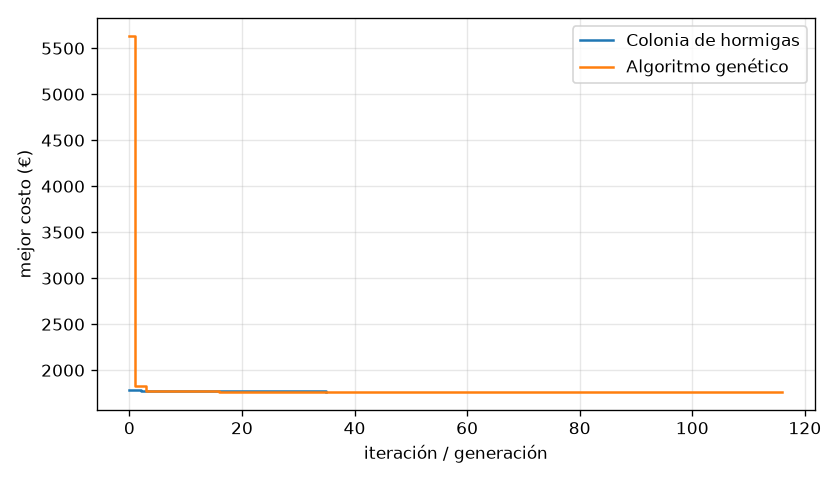
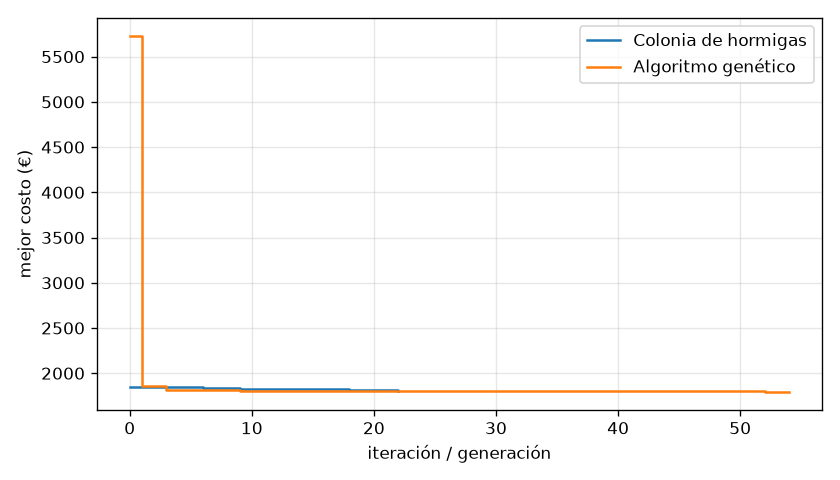
Resultados de la parte 2 con el precio corregido

diff --git a/resultados/parte2/valor_hora.md b/resultados/parte2/valor_hora.md
@@ -1,25 +1,25 @@
 | Valor hora (€/h) | km | horas | peajes (€) | combustible (€) | costo total (€) | aristas distintas |
 |---|---|---|---|---|---|---|
-| 0 | 6,379.3 | 80.75 | 22.79 | 538.19 | 560.98 | 0 |
-| 2.5 | 6,379.3 | 80.75 | 22.79 | 538.19 | 762.84 | 0 |
-| 5 | 6,379.3 | 80.75 | 22.79 | 538.19 | 964.71 | 0 |
-| 7.5 | 6,379.3 | 80.75 | 22.79 | 538.19 | 1,166.57 | 0 |
-| 10 | 6,335.4 | 79.52 | 36.08 | 534.48 | 1,365.77 | 10 |
-| 15 | 6,335.4 | 79.52 | 36.08 | 534.48 | 1,763.37 | 10 |
-| 20 | 6,335.4 | 79.52 | 36.08 | 534.48 | 2,160.97 | 10 |
-| 25 | 6,286.5 | 78.85 | 55.01 | 530.36 | 2,556.64 | 12 |
-| 30 | 6,328.2 | 78.38 | 64.89 | 533.88 | 2,950.16 | 15 |
-| 40 | 6,218.6 | 78.05 | 84.13 | 524.62 | 3,730.65 | 18 |
-| 50 | 6,218.6 | 78.05 | 84.13 | 524.62 | 4,511.12 | 18 |
-| 75 | 6,205.3 | 77.96 | 90.45 | 523.5 | 6,460.76 | 18 |
-| 100 | 6,205.3 | 77.96 | 90.45 | 523.5 | 8,409.7 | 18 |
-| 150 | 6,205.3 | 77.96 | 90.45 | 523.5 | 12,307.58 | 18 |
-| 200 | 6,205.3 | 77.96 | 90.45 | 523.5 | 16,205.45 | 18 |
+| 0 | 6,379.3 | 80.75 | 22.79 | 567.53 | 590.32 | 0 |
+| 2.5 | 6,379.3 | 80.75 | 22.79 | 567.53 | 792.19 | 0 |
+| 5 | 6,379.3 | 80.75 | 22.79 | 567.53 | 994.05 | 0 |
+| 7.5 | 6,416.6 | 79.85 | 26.01 | 570.85 | 1,195.73 | 10 |
+| 10 | 6,335.4 | 79.52 | 36.08 | 563.62 | 1,394.91 | 10 |
+| 15 | 6,335.4 | 79.52 | 36.08 | 563.62 | 1,792.51 | 10 |
+| 20 | 6,242.3 | 78.32 | 67.66 | 555.34 | 2,189.49 | 15 |
+| 25 | 6,242.3 | 78.32 | 67.66 | 555.34 | 2,581.11 | 15 |
+| 30 | 6,247.0 | 78.05 | 74.97 | 555.76 | 2,972.24 | 15 |
+| 40 | 6,247.0 | 78.05 | 74.97 | 555.76 | 3,752.74 | 15 |
+| 50 | 6,247.0 | 78.05 | 74.97 | 555.76 | 4,533.25 | 15 |
+| 75 | 6,247.0 | 78.05 | 74.97 | 555.76 | 6,484.51 | 15 |
+| 100 | 6,247.0 | 78.05 | 74.97 | 555.76 | 8,435.77 | 15 |
+| 150 | 6,205.3 | 77.96 | 90.45 | 552.05 | 12,336.12 | 18 |
+| 200 | 6,205.3 | 77.96 | 90.45 | 552.05 | 16,234.0 | 18 |
 
 Cambios de ruta (cruce exacto de las rectas de costo):
 
-- Entre h = 7.5 y h = 10 €/h: la ruta cambia en h* ≈ 7.82 €/h (ahorra 1.23 h y gasta 9.59 € más en peajes y combustible)
-- Entre h = 20 y h = 25 €/h: la ruta cambia en h* ≈ 22.12 €/h (ahorra 0.67 h y gasta 14.80 € más en peajes y combustible)
-- Entre h = 25 y h = 30 €/h: la ruta cambia en h* ≈ 28.46 €/h (ahorra 0.47 h y gasta 13.40 € más en peajes y combustible)
-- Entre h = 30 y h = 40 €/h: la ruta cambia en h* ≈ 30.03 €/h (ahorra 0.33 h y gasta 9.99 € más en peajes y combustible)
-- Entre h = 50 y h = 75 €/h: la ruta cambia en h* ≈ 57.81 €/h (ahorra 0.09 h y gasta 5.20 € más en peajes y combustible)
+- Entre h = 5 y h = 7.5 €/h: la ruta cambia en h* ≈ 7.30 €/h (ahorra 0.90 h y gasta 6.54 € más en peajes y combustible)
+- Entre h = 7.5 y h = 10 €/h: la ruta cambia en h* ≈ 8.65 €/h (ahorra 0.33 h y gasta 2.85 € más en peajes y combustible)
+- Entre h = 15 y h = 20 €/h: la ruta cambia en h* ≈ 19.48 €/h (ahorra 1.20 h y gasta 23.29 € más en peajes y combustible)
+- Entre h = 25 y h = 30 €/h: la ruta cambia en h* ≈ 28.20 €/h (ahorra 0.27 h y gasta 7.73 € más en peajes y combustible)
+- Entre h = 100 y h = 150 €/h: la ruta cambia en h* ≈ 126.68 €/h (ahorra 0.09 h y gasta 11.77 € más en peajes y combustible)

diff --git a/resultados/parte2/sin_2opt/resumen_aco.md b/resultados/parte2/sin_2opt/resumen_aco.md
@@ -1,18 +1,18 @@
 # Colonia de hormigas
 
 - Valor de la hora: 15.00 €/h
-- Vehículo: SEAT León 2.0 TDI 85 kW (115 CV), 5 puertas, 2024 (4.6 l/100 km, 1.834 €/l)
-- Tiempo de cómputo: 2.9 s
+- Vehículo: SEAT León 2.0 TDI 85 kW (115 CV), 5 puertas, 2024 (4.6 l/100 km, 1.934 €/l)
+- Tiempo de cómputo: 2.8 s
 
 | Concepto | Valor |
 |---|---|
-| Distancia total | 6,617.2 km |
-| Tiempo de conducción | 83.02 h |
-| Costo del tiempo | 1,245.31 € |
-| Peajes | 72.39 € |
-| Combustible | 558.25 € |
-| **Costo total** | **1,875.95 €** |
+| Distancia total | 6,583.0 km |
+| Tiempo de conducción | 82.02 h |
+| Costo del tiempo | 1,230.36 € |
+| Peajes | 67.39 € |
+| Combustible | 585.65 € |
+| **Costo total** | **1,883.39 €** |
 
 Orden del recorrido:
 
-Guadalajara → Madrid → Toledo → Ciudad Real → Albacete → Alacant → Murcia → Almería → Granada → Jaén → Córdoba → Málaga → Cádiz → Sevilla → Huelva → Badajoz → Cáceres → Salamanca → Ávila → Segovia → Valladolid → Palencia → Burgos → Vitoria-Gasteiz → Bilbao → Santander → Oviedo → León → Zamora → Ourense → Pontevedra → A Coruña → Lugo → Soria → Logroño → Pamplona → Donostia-San Sebastián → Huesca → Zaragoza → Lleida → Girona → Barcelona → Tarragona → Castelló de la Plana → València → Teruel → Cuenca → Guadalajara
+Zamora → Salamanca → Ávila → Segovia → Valladolid → Palencia → Burgos → Vitoria-Gasteiz → Logroño → Soria → Guadalajara → Madrid → Toledo → Ciudad Real → Badajoz → Cáceres → Cádiz → Sevilla → Huelva → Córdoba → Jaén → Granada → Málaga → Almería → Murcia → Alacant → Albacete → Cuenca → Teruel → València → Castelló de la Plana → Girona → Barcelona → Tarragona → Lleida → Huesca → Zaragoza → Pamplona → Donostia-San Sebastián → Bilbao → Santander → Oviedo → León → A Coruña → Lugo → Ourense → Pontevedra → Zamora

diff --git a/resultados/parte2/resumen_aco.md b/resultados/parte2/resumen_aco.md
@@ -1,18 +1,18 @@
 # Colonia de hormigas
 
 - Valor de la hora: 15.00 €/h
-- Vehículo: SEAT León 2.0 TDI 85 kW (115 CV), 5 puertas, 2024 (4.6 l/100 km, 1.834 €/l)
+- Vehículo: SEAT León 2.0 TDI 85 kW (115 CV), 5 puertas, 2024 (4.6 l/100 km, 1.934 €/l)
 - Tiempo de cómputo: 3.2 s
 
 | Concepto | Valor |
 |---|---|
-| Distancia total | 6,335.4 km |
-| Tiempo de conducción | 79.52 h |
-| Costo del tiempo | 1,192.80 € |
-| Peajes | 36.08 € |
-| Combustible | 534.48 € |
-| **Costo total** | **1,763.37 €** |
+| Distancia total | 6,379.4 km |
+| Tiempo de conducción | 80.63 h |
+| Costo del tiempo | 1,209.50 € |
+| Peajes | 26.22 € |
+| Combustible | 567.53 € |
+| **Costo total** | **1,803.25 €** |
 
 Orden del recorrido:
 
-Ciudad Real → Toledo → Madrid → Guadalajara → Cuenca → Teruel → València → Castelló de la Plana → Tarragona → Barcelona → Girona → Lleida → Huesca → Zaragoza → Soria → Logroño → Pamplona → Donostia-San Sebastián → Vitoria-Gasteiz → Bilbao → Santander → Oviedo → A Coruña → Lugo → Pontevedra → Ourense → Zamora → León → Burgos → Palencia → Valladolid → Segovia → Ávila → Salamanca → Cáceres → Badajoz → Huelva → Sevilla → Cádiz → Córdoba → Jaén → Granada → Málaga → Almería → Murcia → Alacant → Albacete → Ciudad Real
+Vitoria-Gasteiz → Bilbao → Santander → Oviedo → A Coruña → Lugo → Pontevedra → Ourense → León → Zamora → Salamanca → Ávila → Segovia → Valladolid → Palencia → Burgos → Logroño → Soria → Guadalajara → Madrid → Toledo → Ciudad Real → Cáceres → Badajoz → Huelva → Sevilla → Cádiz → Córdoba → Jaén → Granada → Málaga → Almería → Murcia → Alacant → Albacete → Cuenca → Teruel → València → Castelló de la Plana → Tarragona → Barcelona → Girona → Lleida → Zaragoza → Huesca → Pamplona → Donostia-San Sebastián → Vitoria-Gasteiz

diff --git a/resultados/parte2/sin_2opt/resumen_ga.md b/resultados/parte2/sin_2opt/resumen_ga.md
@@ -1,18 +1,18 @@
 # Algoritmo genético
 
 - Valor de la hora: 15.00 €/h
-- Vehículo: SEAT León 2.0 TDI 85 kW (115 CV), 5 puertas, 2024 (4.6 l/100 km, 1.834 €/l)
+- Vehículo: SEAT León 2.0 TDI 85 kW (115 CV), 5 puertas, 2024 (4.6 l/100 km, 1.934 €/l)
 - Tiempo de cómputo: 1.4 s
 
 | Concepto | Valor |
 |---|---|
-| Distancia total | 6,995.1 km |
-| Tiempo de conducción | 86.96 h |
-| Costo del tiempo | 1,304.33 € |
-| Peajes | 70.35 € |
-| Combustible | 590.14 € |
-| **Costo total** | **1,964.81 €** |
+| Distancia total | 6,986.8 km |
+| Tiempo de conducción | 88.47 h |
+| Costo del tiempo | 1,327.09 € |
+| Peajes | 38.13 € |
+| Combustible | 621.58 € |
+| **Costo total** | **1,986.80 €** |
 
 Orden del recorrido:
 
-Bilbao → Vitoria-Gasteiz → Donostia-San Sebastián → Pamplona → Logroño → Soria → Lleida → Tarragona → Barcelona → Girona → Huesca → Zaragoza → Teruel → Castelló de la Plana → València → Alacant → Albacete → Murcia → Almería → Granada → Málaga → Cádiz → Sevilla → Huelva → Badajoz → Cáceres → Córdoba → Jaén → Ciudad Real → Toledo → Cuenca → Guadalajara → Madrid → Segovia → Ávila → Pontevedra → Ourense → Lugo → A Coruña → Oviedo → León → Zamora → Salamanca → Palencia → Valladolid → Burgos → Santander → Bilbao
+Cuenca → Guadalajara → Madrid → Valladolid → Palencia → León → Burgos → Vitoria-Gasteiz → Logroño → Soria → Segovia → Ávila → Toledo → Ciudad Real → Jaén → Almería → Málaga → Granada → Córdoba → Cádiz → Huelva → Sevilla → Badajoz → Cáceres → Salamanca → Zamora → Ourense → Pontevedra → Lugo → A Coruña → Oviedo → Santander → Bilbao → Donostia-San Sebastián → Pamplona → Huesca → Tarragona → Girona → Barcelona → Lleida → Zaragoza → Teruel → València → Castelló de la Plana → Alacant → Murcia → Albacete → Cuenca

diff --git a/resultados/parte2/resumen_ga.md b/resultados/parte2/resumen_ga.md
@@ -1,7 +1,7 @@
 # Algoritmo genético
 
 - Valor de la hora: 15.00 €/h
-- Vehículo: SEAT León 2.0 TDI 85 kW (115 CV), 5 puertas, 2024 (4.6 l/100 km, 1.834 €/l)
+- Vehículo: SEAT León 2.0 TDI 85 kW (115 CV), 5 puertas, 2024 (4.6 l/100 km, 1.934 €/l)
 - Tiempo de cómputo: 3.9 s
 
 | Concepto | Valor |
@@ -10,9 +10,9 @@
 | Tiempo de conducción | 79.52 h |
 | Costo del tiempo | 1,192.80 € |
 | Peajes | 36.08 € |
-| Combustible | 534.48 € |
-| **Costo total** | **1,763.37 €** |
+| Combustible | 563.62 € |
+| **Costo total** | **1,792.51 €** |
 
 Orden del recorrido:
 
-Almería → Málaga → Granada → Jaén → Córdoba → Cádiz → Sevilla → Huelva → Badajoz → Cáceres → Salamanca → Ávila → Segovia → Valladolid → Palencia → Burgos → León → Zamora → Ourense → Pontevedra → Lugo → A Coruña → Oviedo → Santander → Bilbao → Vitoria-Gasteiz → Donostia-San Sebastián → Pamplona → Logroño → Soria → Zaragoza → Huesca → Lleida → Girona → Barcelona → Tarragona → Castelló de la Plana → València → Teruel → Cuenca → Guadalajara → Madrid → Toledo → Ciudad Real → Albacete → Alacant → Murcia → Almería
+Bilbao → Santander → Oviedo → A Coruña → Lugo → Pontevedra → Ourense → Zamora → León → Burgos → Palencia → Valladolid → Segovia → Ávila → Salamanca → Cáceres → Badajoz → Huelva → Sevilla → Cádiz → Córdoba → Jaén → Granada → Málaga → Almería → Murcia → Alacant → Albacete → Ciudad Real → Toledo → Madrid → Guadalajara → Cuenca → Teruel → València → Castelló de la Plana → Tarragona → Barcelona → Girona → Lleida → Huesca → Zaragoza → Soria → Logroño → Pamplona → Donostia-San Sebastián → Vitoria-Gasteiz → Bilbao

diff --git a/resultados/parte2/comparacion.md b/resultados/parte2/comparacion.md
@@ -1,8 +1,8 @@
-Valor de la hora: 15 €/h. Corridas: 10. Mejor costo conocido: 1,763.37 €
+Valor de la hora: 15 €/h. Corridas: 10. Mejor costo conocido: 1,792.51 €
 
 | Configuración | Media (€) | Desv. (€) | Mejor (€) | Peor (€) | Brecha media | Veces que llega al mejor | s/corrida |
 |---|---|---|---|---|---|---|---|
-| ACO + 2-opt | 1,763.67 | 0.49 | 1,763.37 | 1,764.39 | 0.02 % | 7/10 | 3.1 |
-| ACO sin 2-opt | 1,849.06 | 19.89 | 1,811.96 | 1,875.95 | 4.86 % | 0/10 | 3.0 |
-| GA + 2-opt | 1,763.91 | 1.72 | 1,763.37 | 1,768.80 | 0.03 % | 9/10 | 3.9 |
-| GA sin 2-opt | 1,946.69 | 47.25 | 1,882.47 | 2,012.22 | 10.40 % | 0/10 | 1.4 |
+| ACO + 2-opt | 1,795.41 | 4.16 | 1,792.51 | 1,803.25 | 0.16 % | 4/10 | 3.2 |
+| ACO sin 2-opt | 1,876.73 | 18.92 | 1,841.46 | 1,899.88 | 4.70 % | 0/10 | 2.9 |
+| GA + 2-opt | 1,794.15 | 2.64 | 1,792.51 | 1,797.96 | 0.09 % | 7/10 | 4.0 |
+| GA sin 2-opt | 1,985.77 | 71.55 | 1,862.48 | 2,077.23 | 10.78 % | 0/10 | 1.4 |
